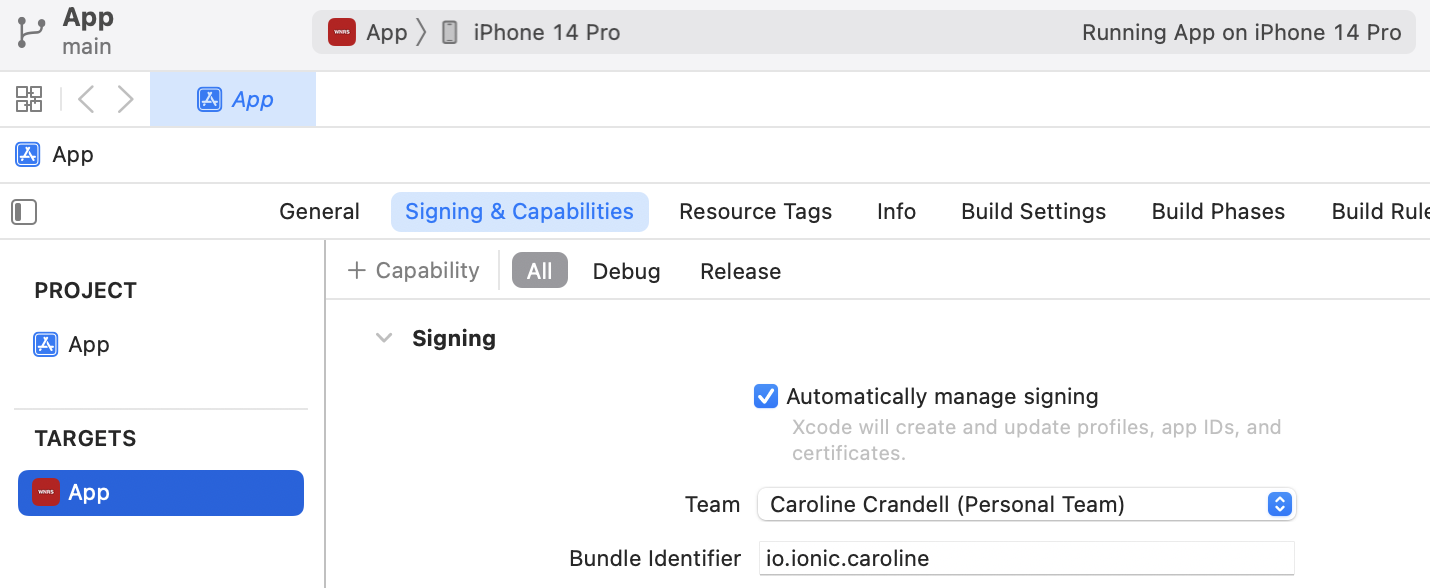
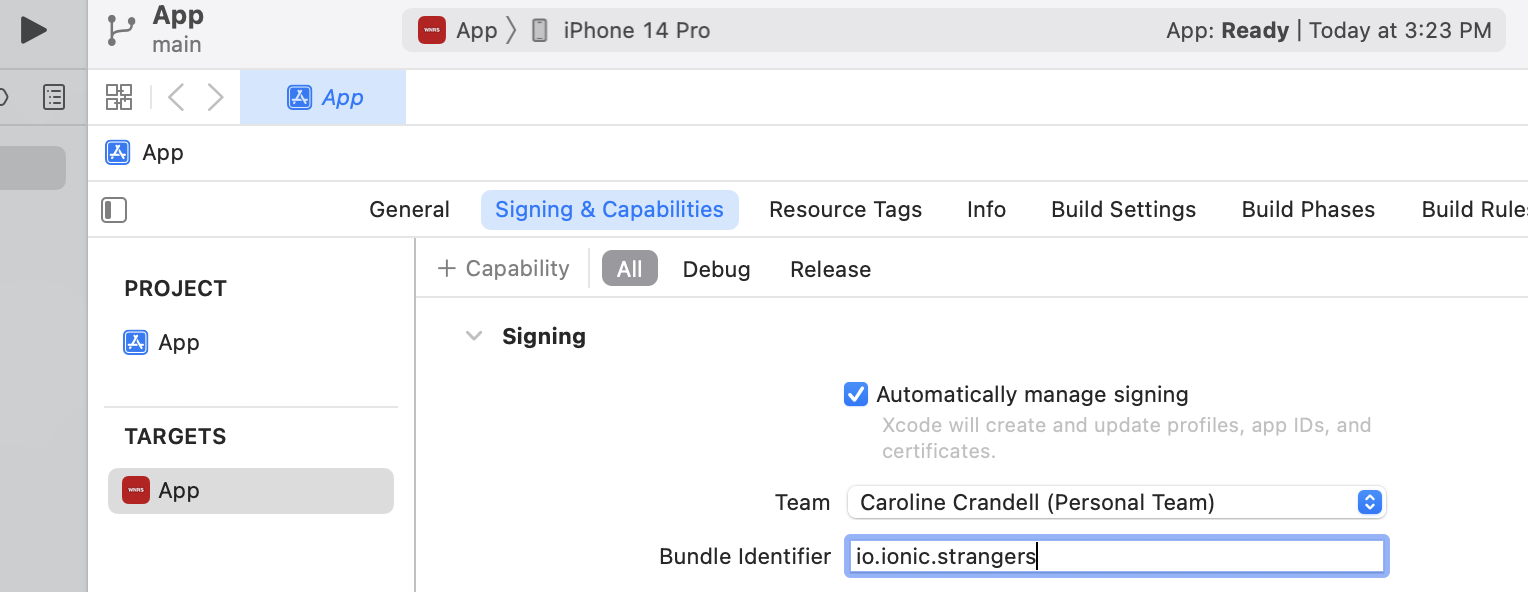
Bundle identifier

diff --git a/README.md b/README.md
@@ -75,7 +75,7 @@ To open in Xcode, run:
 ionic cap open ios
 ```
 
-Once you are in Xcode, you will need to configure your Apple ID as your Team and change your Bundle Identifier from `io.ionic.starter` to `io.ionic.<your-first-name>` (see screenshot below for an example):
+Once you are in Xcode, you will need to configure your Apple ID as your Team and change your Bundle Identifier from `io.ionic.starter` to `io.ionic.<app-name>` (see screenshot below for an example):
 
 ![xcode](support/xcode.png)
 
